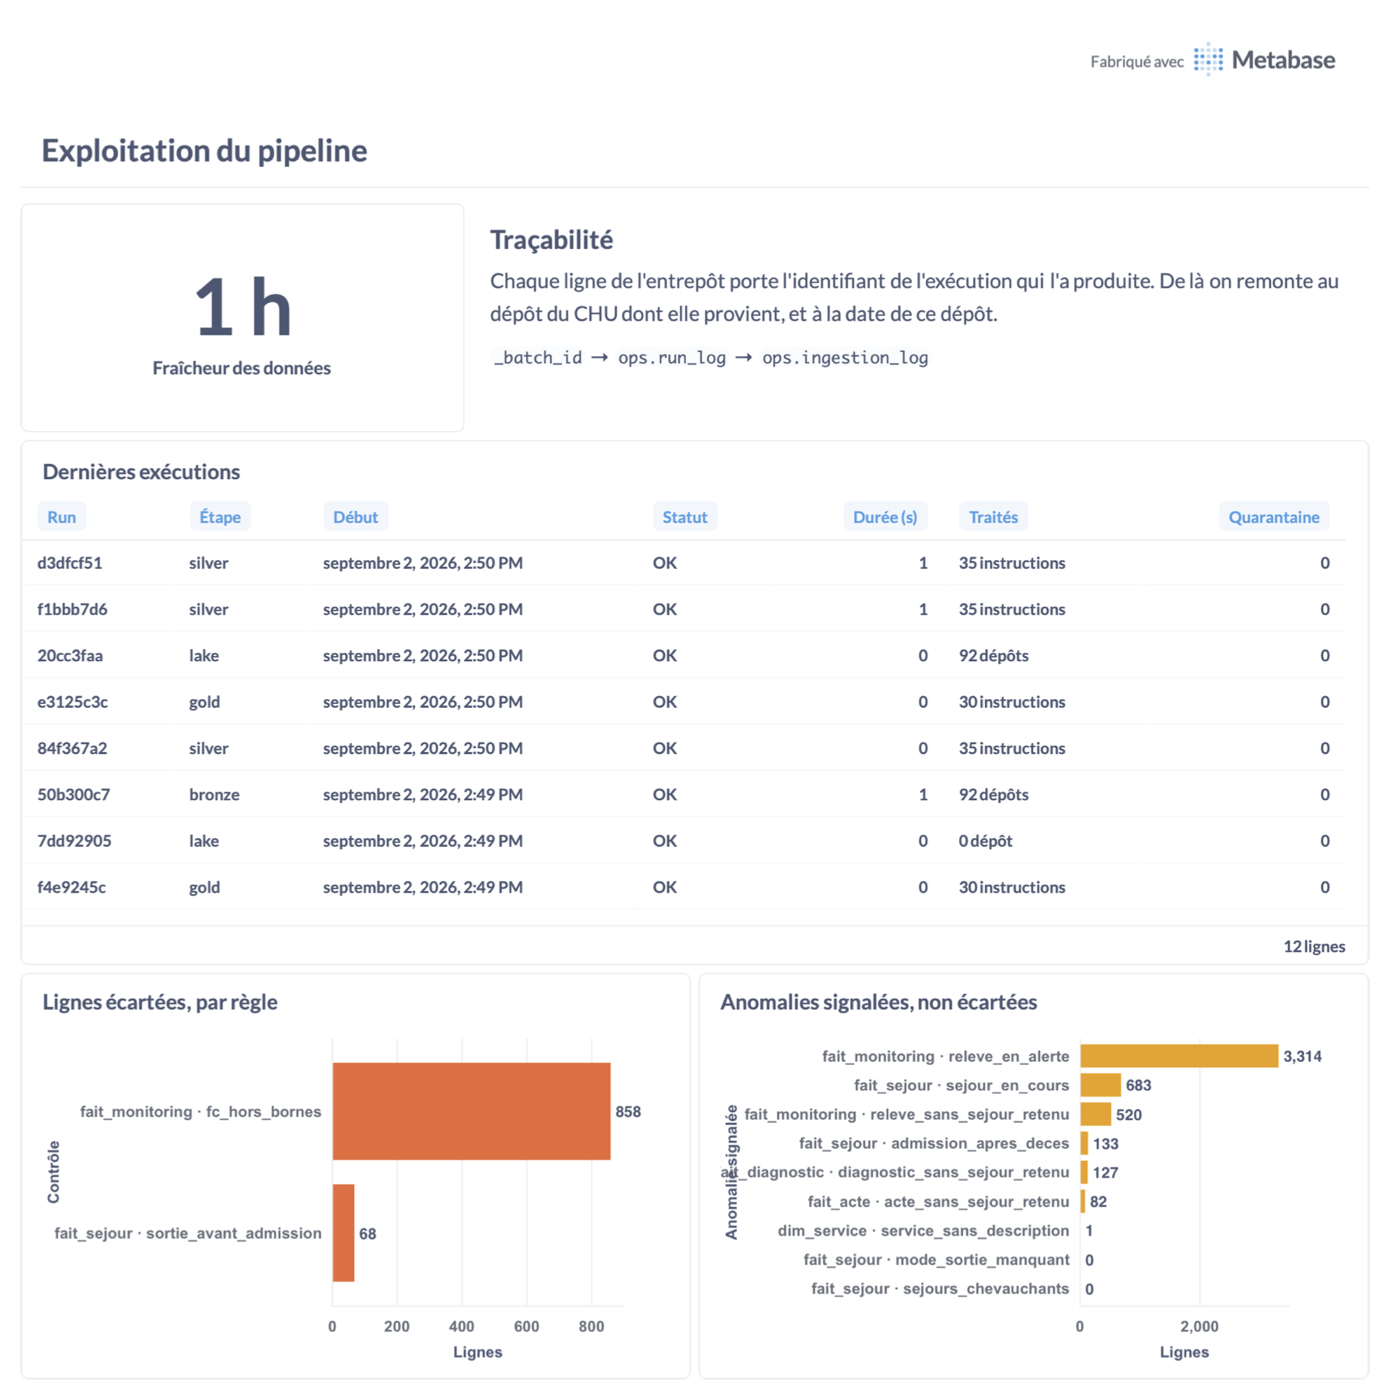
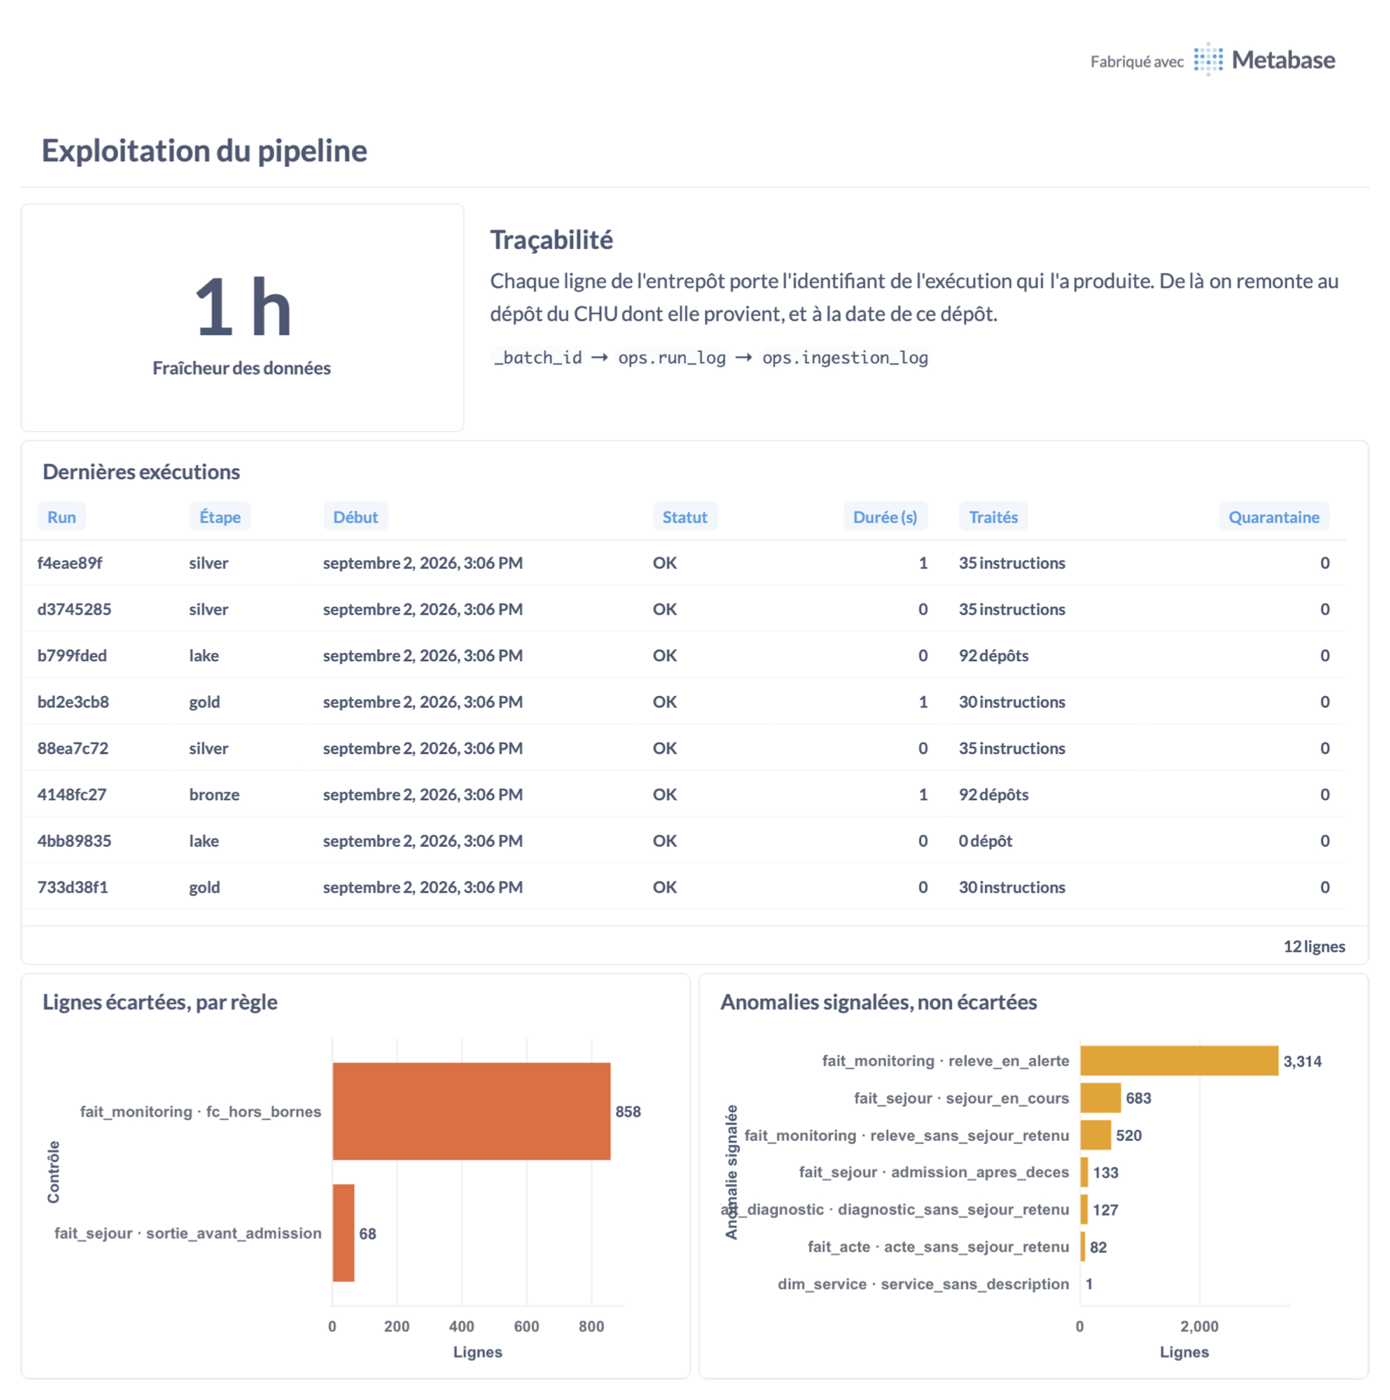
Mettre à jour la capture du tableau de bord Exploitation
Elle reflète les trois corrections que les captures précédentes avaient
révélées : le texte de traçabilité sans l'empreinte SHA-256 disparue, la
table des exécutions sans les runs de la suite de tests, et la volumétrie
prise au dernier chargement et non sommée sur l'historique.

La carte des signalements y montre ses sept contrôles ayant trouvé
quelque chose. Le commentaire du dossier dit ce que le graphique ne peut
pas dire : les deux contrôles à zéro tournent toujours, un test le
garde, et le jeu précédent en affichait 53,7 % et 14,4 %.

Claude-Session: https://claude.ai/code/session_01N8GYeQbrYE5E2HdpVtMC9j

Changed region(s): [[0.5259, 0.7371, 0.959, 0.9214], [0.0309, 0.3993, 0.0928, 0.645]]

diff --git a/docs/DOSSIER.md b/docs/DOSSIER.md
@@ -329,11 +329,14 @@ quand quelque chose casse.
 ![Tableau de bord Exploitation](img/tdb-exploitation.png)
 
 On y lit la fraîcheur des données, les dernières exécutions avec leur statut et
-leurs compteurs, les deux règles de rejet et les signalements ayant trouvé
-quelque chose. Deux contrôles valent zéro sur ce jeu et n'apparaissent donc pas ;
-ils tournent pourtant à chaque exécution et restent dans `ops.data_quality`, où
-l'on vérifie qu'« aucune anomalie » ne s'est pas changé en « plus personne ne
-mesure ».
+leurs compteurs, les deux règles de rejet et les sept signalements ayant trouvé
+quelque chose.
+
+Deux contrôles valent zéro sur ce jeu — séjours chevauchants, modes de sortie
+manquants — et n'encombrent donc pas le graphique. Ils tournent pourtant à
+chaque exécution et restent dans `ops.data_quality` : un test vérifie qu'ils y
+sont toujours, de sorte qu'« aucune anomalie » ne puisse silencieusement devenir
+« plus personne ne mesure ». Le jeu précédent en affichait 53,7 % et 14,4 %.
 
 Deux choix de lisibilité méritent d'être dits. Les tranches d'âge sont un axe
 **ordonné** : elles utilisent une rampe d'une seule teinte, du clair au foncé —
